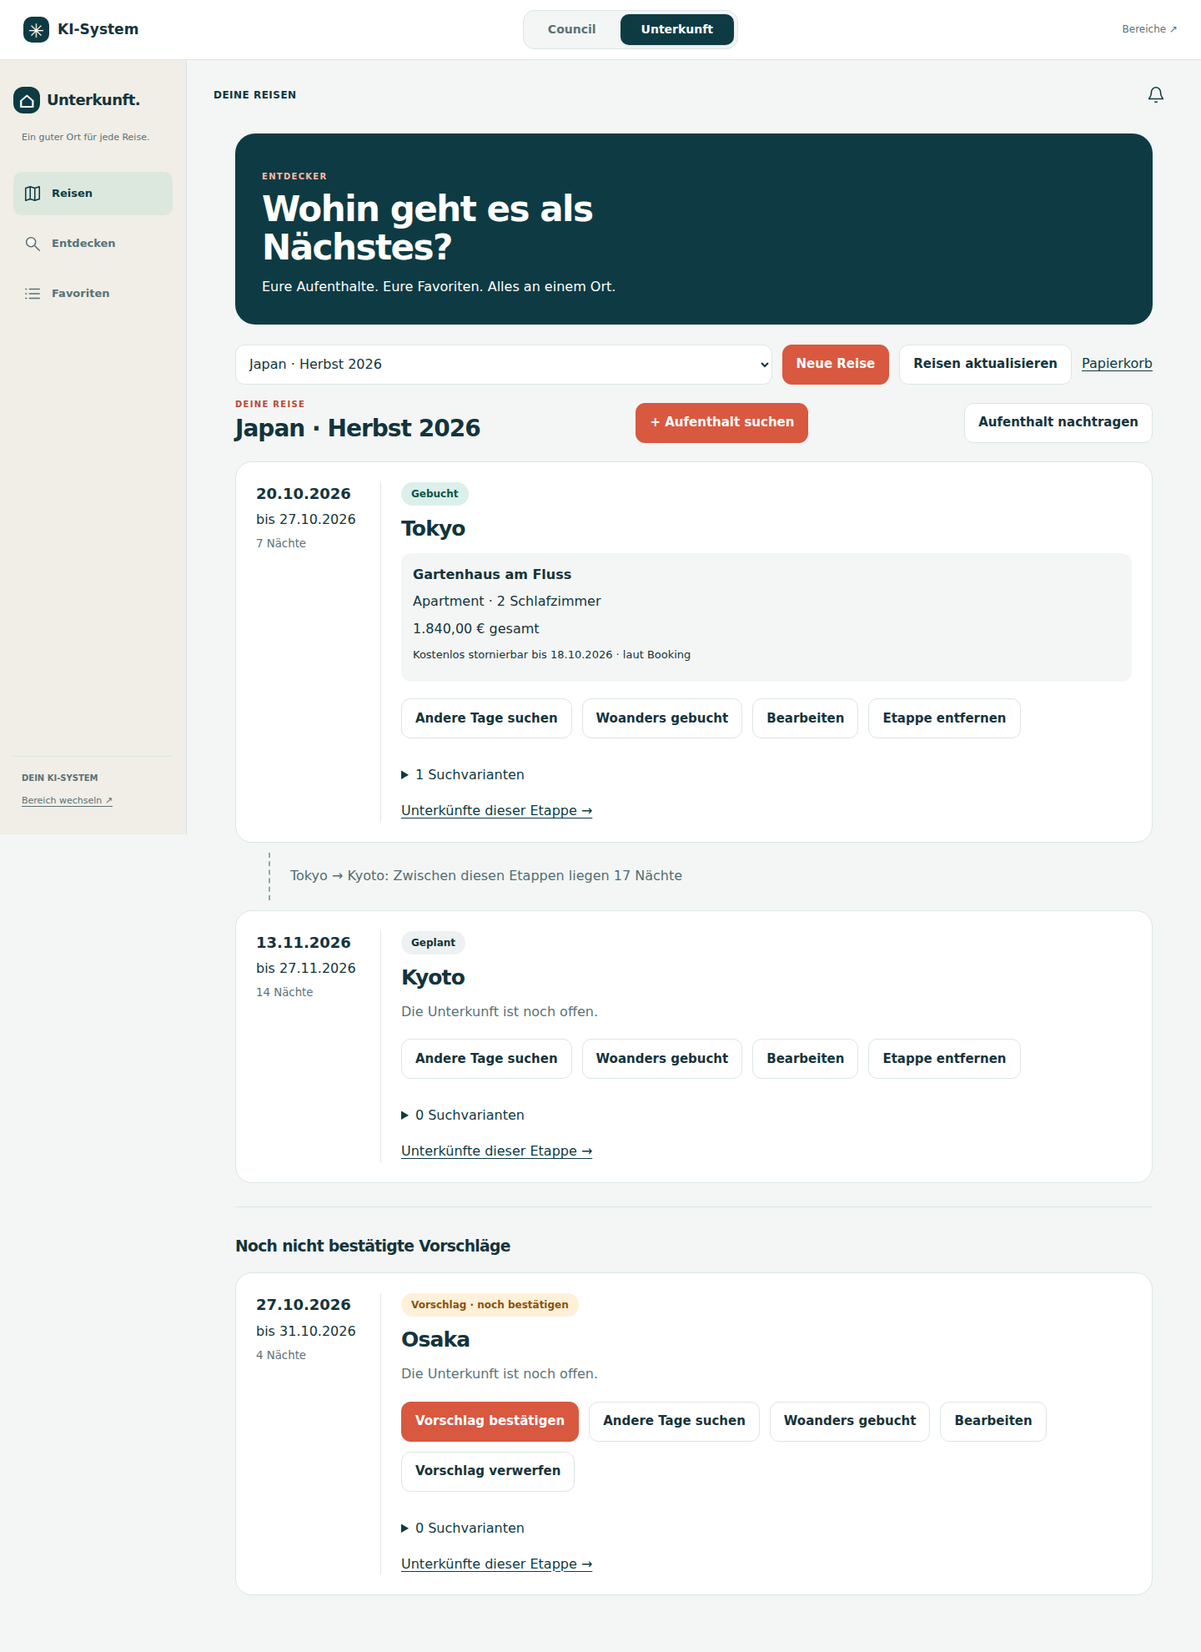
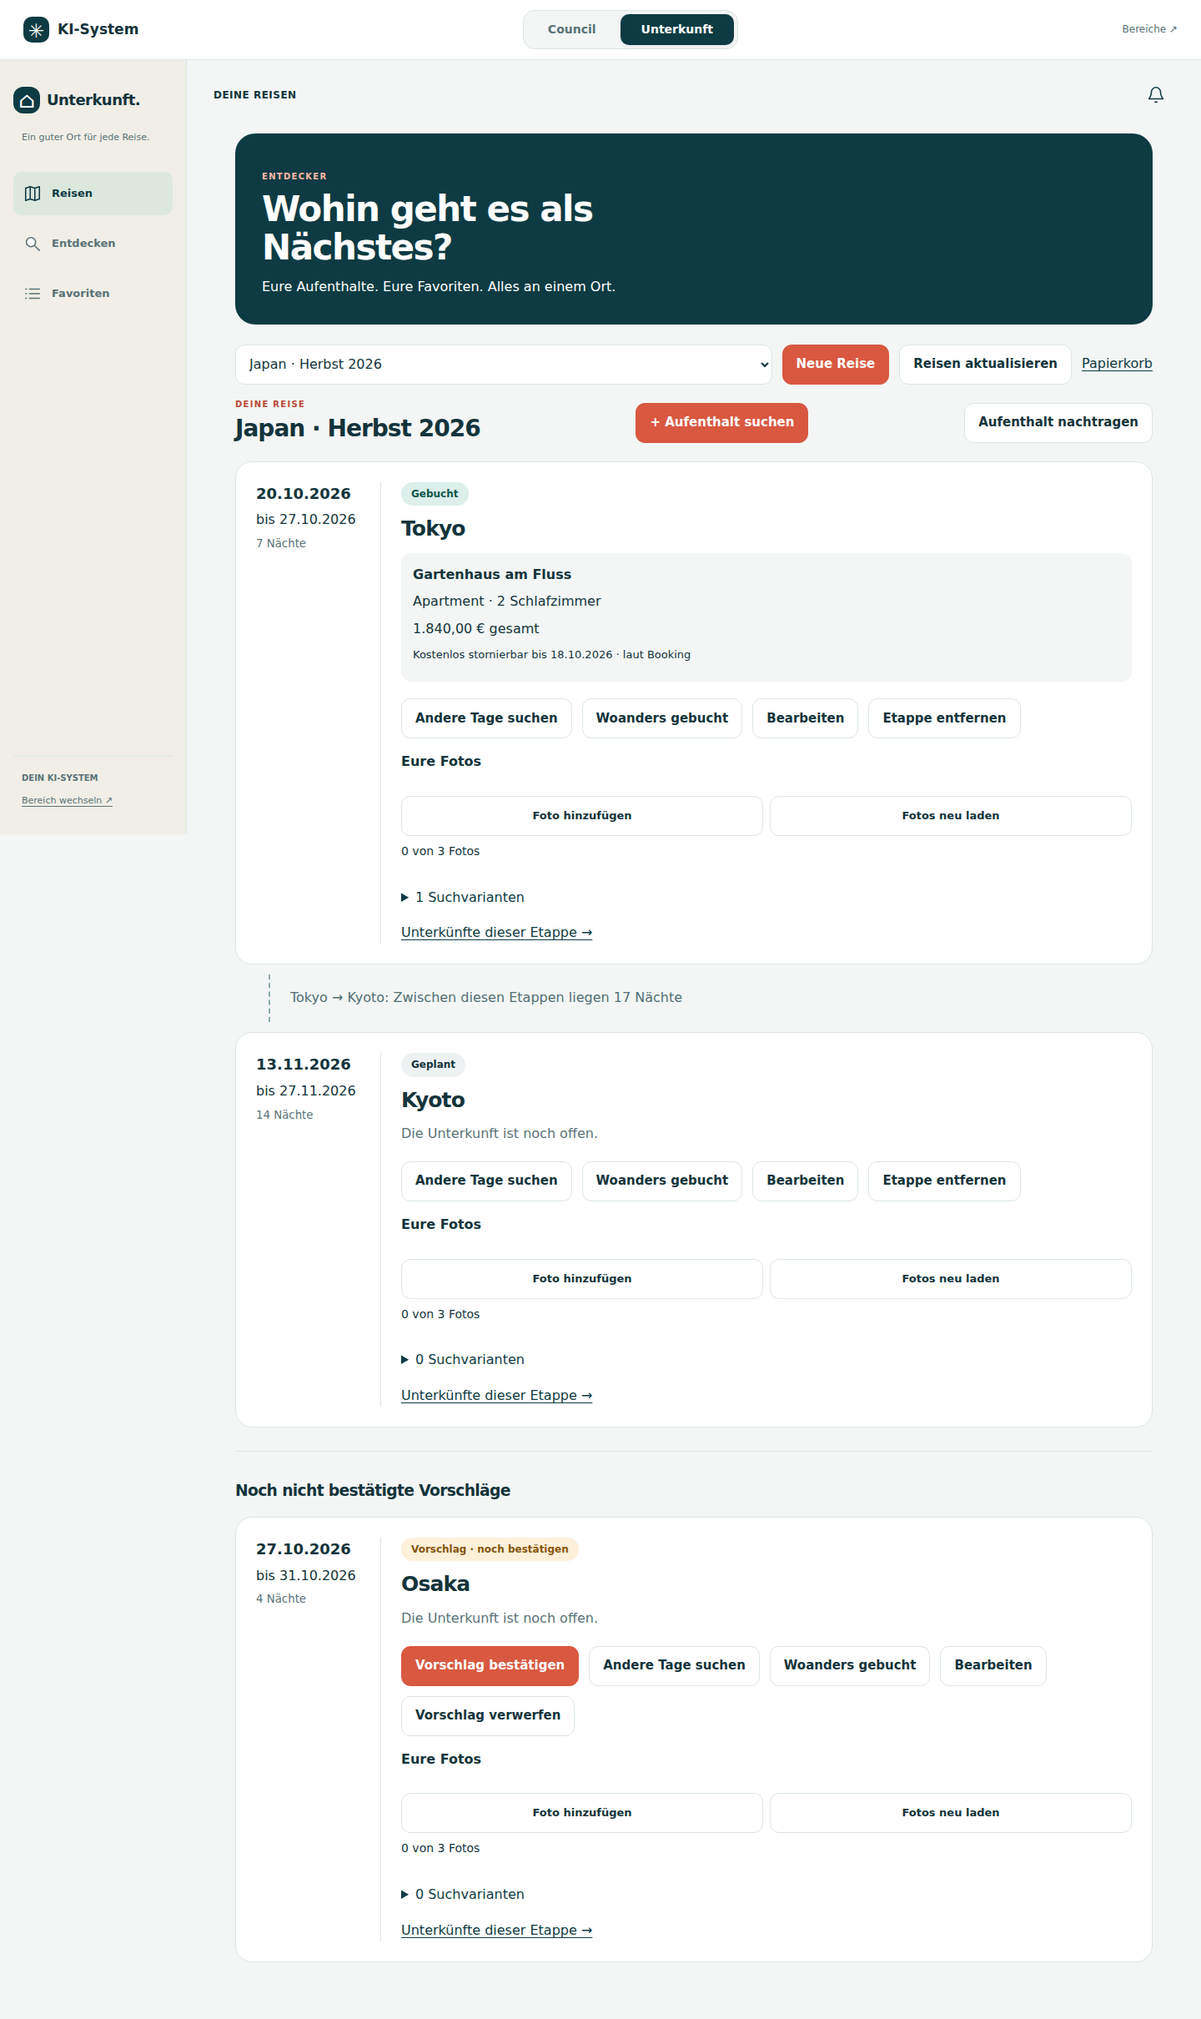
Add private stay photos and collapsible past stays (W88; local a26a035)

diff --git a/stay-trips.js b/stay-trips.js
@@ -46,24 +46,28 @@ async function viewReisen(arg){
  async function change(e,data){if(pending)return;if(e.status==='gebucht'&&data.aktive_suche_id&&data.aktive_suche_id!==e.aktive_suche_id){status.textContent='Diese Etappe ist bereits gebucht. Für einen anderen gebuchten Aufenthalt bitte eine getrennte Etappe anlegen; die Buchung wird nicht still auf andere Tage übertragen.';return;}pending=true;scope.querySelectorAll('button').forEach(b=>b.disabled=true);try{const r=await tripCall('unterkunft_etappe_speichern',{id:e.id,version:e.version,...data});if(r.etappe?.id!==e.id)throw Error('Änderung nicht bestätigt.');await load();}catch(err){status.textContent=err.message+' Bitte Reisen aktualisieren.';}finally{pending=false;reload.disabled=false;}}
  function draw(){
   const expanded=new Set([...content.querySelectorAll('[data-stage] details[open]')].map(n=>Number(n.closest('[data-stage]').dataset.stage)));
+  const pastWasOpen=content.querySelector('.past-stays')?.open||false;
   const rid=Number(selector.value),trip=snapshot.reisen.find(x=>x.id===rid);content.replaceChildren();if(!trip){content.append(el('p',{},'Lege deine erste Reise an. Danach kannst du Unterkünfte suchen.'));return;}
   const stages=snapshot.etappen.filter(e=>e.reise_id===rid).sort((a,b)=>String(a.anreise).localeCompare(String(b.anreise))||a.id-b.id);
   content.append(el('div',{class:'trip-title'},el('div',{},el('p',{class:'eyebrow'},'DEINE REISE'),el('h2',{},trip.name)),el('button',{class:'primary',onclick:()=>{stayWrite('ks_trip_context',{reise_id:rid});route('suche');}},'+ Aufenthalt suchen'),el('button',{onclick:()=>tripExternalBooking({reise_id:rid},load)},'Aufenthalt nachtragen')));
   const timeline=el('div',{class:'trip-timeline'}),proposals=el('section',{class:'trip-proposals'},el('h3',{},'Noch nicht bestätigte Vorschläge'));content.append(timeline);
-  const confirmed=stages.filter(e=>e.status!=='vorschlag');
+  const now=new Date(),today=[now.getFullYear(),String(now.getMonth()+1).padStart(2,'0'),String(now.getDate()).padStart(2,'0')].join('-');
+  const pastStages=stages.filter(e=>e.abreise<today),past=el('details',{class:'past-stays',open:pastWasOpen},el('summary',{},'Bisherige Aufenthalte ('+pastStages.length+')'));
+  const confirmed=stages.filter(e=>e.status!=='vorschlag'&&e.abreise>=today);
   for(const e of stages){const b=e.buchung,card=el('article',{class:'trip-stage','data-stage':e.id});
    card.append(el('div',{class:'stage-date'},el('strong',{},fmtDate(e.anreise)),el('span',{},'bis '+fmtDate(e.abreise)),el('small',{},(e.naechte??'–')+' Nächte')),
-    el('div',{class:'stage-main'},el('span',{class:'trip-status '+e.status},{vorschlag:'Vorschlag · noch bestätigen',geplant:'Geplant',gebucht:'Gebucht'}[e.status]||'Status offen'),el('h3',{},e.ziel),b?el('div',{class:'booking-summary'},el('strong',{},b.name||'Unterkunft'),el('p',{},b.zimmer||''),el('p',{},sucheEuro(b.preis_gesamt_eur)+' gesamt'),el('p',{class:'storno'},tripStorno(b))):el('p',{class:'muted'},'Die Unterkunft ist noch offen.'),
+    el('div',{class:'stage-main'},el('span',{class:'trip-status '+e.status},{vorschlag:'Vorschlag · noch bestätigen',geplant:'Geplant',gebucht:'Gebucht'}[e.status]||'Status offen'),el('h3',{},e.ziel),b?el('div',{class:'booking-summary'},el('strong',{},b.name||'Unterkunft'),el('p',{},b.zimmer||''),el('p',{},b.preis_gesamt_eur==null?(b.notiz?'Preis siehe Notiz':'Preis nicht eingetragen'):sucheEuro(b.preis_gesamt_eur)+' gesamt'),el('p',{class:'storno'},tripStorno(b)),b.notiz?el('details',{},el('summary',{},'Buchungsnotiz'),el('p',{class:'booking-note'},b.notiz)):null):el('p',{class:'muted'},'Die Unterkunft ist noch offen.'),
     el('div',{class:'actions'},e.status==='vorschlag'?el('button',{class:'primary',onclick:()=>change(e,{status:'geplant'})},'Vorschlag bestätigen'):null,el('button',{onclick:()=>tripStart(e)},'Andere Tage suchen'),el('button',{onclick:()=>tripExternalBooking(e,load)},'Woanders gebucht'),el('button',{onclick:()=>tripEdit(e,load)},'Bearbeiten'),el('button',{onclick:()=>tripDelete('etappe',e.id,load)},e.status==='vorschlag'?'Vorschlag verwerfen':'Etappe entfernen'))));
    const searches=el('details',{open:expanded.has(e.id)},el('summary',{},(e.suchen||[]).length+' Suchvarianten'));
    for(const s of e.suchen||[]){const active=s.id===e.aktive_suche_id;searches.append(el('div',{class:'trip-variant'},el('a',{href:'#/suche/'+s.id},`${fmtDate(s.anreise)}–${fmtDate(s.abreise)} · ${s.status}`),active?el('strong',{},'Aktuelle Variante'):el('button',{onclick:()=>change(e,{aktive_suche_id:s.id})},'Diese Tage verwenden'),el('button',{onclick:()=>tripDelete('suchauftrag',s.id,load)},'Suche entfernen')));}
-   card.querySelector('.stage-main').append(searches,el('a',{href:'#/etappe/'+e.id},'Unterkünfte dieser Etappe →'));if(e.status==='vorschlag')proposals.append(card);else {
+   card.querySelector('.stage-main').append(tripPhotos(e.id,live,{lazy:e.abreise<today}),searches,el('a',{href:'#/etappe/'+e.id},'Unterkünfte dieser Etappe →'));if(e.abreise<today)past.append(card);else if(e.status==='vorschlag')proposals.append(card);else {
     const before=confirmed[confirmed.indexOf(e)-1];
     for(const gap of snapshot.luecken||[]){if(before&&gap.zwischen?.[0]===before.id&&gap.zwischen?.[1]===e.id)timeline.append(el('div',{class:'trip-gap','data-gap-from':before.id,'data-gap-to':e.id},`${before.ziel} → ${e.ziel}: `+(gap.text||`${gap.naechte} Nächte noch offen`)));}
     timeline.append(card);
    }
   }
   if(proposals.childElementCount>1)content.append(proposals);
+  if(pastStages.length)content.append(past);
   if(!stages.length)timeline.append(el('p',{class:'card'},'Noch keine Etappen. Suche deinen ersten Aufenthalt.'));
   const loose=(snapshot.ohne_etappe||[]).filter(s=>s.reise_id===rid||!s.reise_id);if(loose.length){const box=el('details',{},el('summary',{},'Suchen ohne Etappe'));for(const s of loose){const target=el('select',{'aria-label':'Etappe für Suche '+s.id},el('option',{value:''},'Etappe wählen'),stages.map(e=>el('option',{value:e.id},e.ziel+' · '+fmtDate(e.anreise))));box.append(el('div',{class:'trip-variant'},el('a',{href:'#/suche/'+s.id},'Suche #'+s.id+' · '+s.ziel),target,el('button',{onclick:async ev=>{if(!tripId(target.value))return;ev.target.disabled=true;try{const r=await tripCall('unterkunft_etappe_zuordnen',{suchauftrag_id:s.id,etappe_id:Number(target.value)});if(!r.suche)throw Error('Zuordnung nicht bestätigt.');await load();}catch(e){status.textContent=e.message+' Bitte neu lesen.';}}},'Zuordnen')));}content.append(box);}
  }

diff --git a/stay-photos.js b/stay-photos.js
@@ -1,0 +1,46 @@
+/* Private stay photos: signed URLs stay in memory, never in app storage. */
+async function tripPhotoPrepare(file){
+ if(!file||!file.type.startsWith('image/'))throw Error('Bitte eine Bilddatei auswählen.');
+ const source=URL.createObjectURL(file),img=new Image();
+ try{
+  img.src=source;try{await img.decode();}catch{throw Error('Dieses Bildformat lässt sich hier nicht öffnen. Bitte als JPEG oder PNG auswählen.');}
+  const scale=Math.min(1,1600/Math.max(img.naturalWidth,img.naturalHeight)),canvas=document.createElement('canvas');
+  canvas.width=Math.max(1,Math.round(img.naturalWidth*scale));canvas.height=Math.max(1,Math.round(img.naturalHeight*scale));
+  const ctx=canvas.getContext('2d');if(!ctx)throw Error('Bildverarbeitung nicht verfügbar.');ctx.fillStyle='#fff';ctx.fillRect(0,0,canvas.width,canvas.height);ctx.drawImage(img,0,0,canvas.width,canvas.height);
+  const data=canvas.toDataURL('image/jpeg',0.82).split(',')[1];if(!data||Math.ceil(data.length*3/4)>3*1024*1024)throw Error('Bild ist noch zu groß. Bitte ein kleineres Foto auswählen.');
+  return {mime:'image/jpeg',daten_base64:data,breite:canvas.width,hoehe:canvas.height};
+ }finally{URL.revokeObjectURL(source);}
+}
+function tripPhotos(etappeId,live,{lazy=false}={}){
+ const node=el('section',{class:'stay-photos','aria-label':'Fotos zum Aufenthalt','data-stay-photos':etappeId}),list=el('div',{class:'stay-photo-strip'}),message=el('p',{class:'small',role:'status'});
+ const input=el('input',{type:'file',accept:'image/*','aria-label':'Foto für Aufenthalt '+etappeId+' auswählen',class:'photo-file-input'});
+ const add=el('button',{type:'button',onclick:()=>input.click()},'Foto hinzufügen'),reload=el('button',{type:'button',onclick:()=>load(true)},'Fotos neu laden');
+ let photos=[],pending=false,uncertain=false,loaded=false,refreshUsed=false,viewer=null,viewedId=null;
+ const active=()=>live()&&node.isConnected;
+ node.append(el('h4',{},'Eure Fotos'),list,input,el('div',{class:'actions'},add,reload),message);
+ function controls(){add.hidden=photos.length>=3;input.disabled=add.disabled=pending||uncertain||!loaded;reload.disabled=pending;list.querySelectorAll('button').forEach(b=>b.disabled=pending||uncertain);}
+ function url(value){try{const u=new URL(value);return u.protocol==='https:'&&!u.username&&!u.password?u.href:null;}catch{return null;}}
+ function photoImage(p){return el('img',{src:url(p.url),alt:p.titel||'Aufenthaltsfoto',loading:'lazy',referrerpolicy:'no-referrer',onerror:()=>{if(!active())return;if(!refreshUsed&&!pending){refreshUsed=true;void load(false);}else message.textContent='Foto nicht verfügbar. Bitte Fotos neu laden.';}});}
+ function show(p){viewer?.d.close();viewedId=p.foto_id;viewer=tripDialog(p.titel||'Aufenthaltsfoto');viewer.body.append(photoImage(p));viewer.d.classList.add('stay-photo-viewer');viewer.d.addEventListener('close',()=>{viewer=null;viewedId=null;});}
+ function draw(){list.replaceChildren(...photos.map(p=>el('figure',{},el('button',{type:'button','aria-label':'Foto groß öffnen',onclick:()=>show(p)},photoImage(p)),el('button',{type:'button',onclick:()=>remove(p)},'Foto löschen'))));controls();
+  if(viewer){const p=photos.find(p=>p.foto_id===viewedId);if(p)viewer.body.replaceChildren(photoImage(p));else viewer.d.close();}
+ }
+ async function load(manual=false){if(pending||!active())return;pending=true;if(manual)refreshUsed=false;controls();message.textContent='Fotos werden geladen …';
+  try{const r=await tripCall('unterkunft_fotos_lesen',{etappe_id:etappeId});if(!active())return;if(!Array.isArray(r.fotos)||r.fotos.length>3||r.fotos.some(p=>!tripId(p.foto_id)||p.etappe_id!==etappeId||!url(p.url)))throw Error('Fotos nicht vollständig lesbar.');photos=r.fotos;loaded=true;uncertain=false;message.textContent=photos.length+' von 3 Fotos';draw();}
+  catch(e){if(active())message.textContent=e.message;}
+  finally{pending=false;if(active())controls();}
+ }
+ input.onchange=async()=>{const file=input.files?.[0];input.value='';if(!file||pending||uncertain||!loaded||photos.length>=3)return;pending=true;controls();message.textContent='Foto wird verkleinert …';let sent=false;
+  try{const data=await tripPhotoPrepare(file);if(!active())return;message.textContent='Foto wird hochgeladen …';sent=true;const r=await tripCall('unterkunft_foto_hochladen',{etappe_id:etappeId,...data});if(!active())return;if(!tripId(r.foto_id)||r.etappe_id!==etappeId)throw Error('Hochladen nicht eindeutig bestätigt.');pending=false;await load();}
+  catch(e){if(active()){uncertain=sent;message.textContent=e.message+(sent?' Bitte Fotos neu laden; nicht erneut hochladen.':'');}}
+  finally{pending=false;if(active())controls();}
+ };
+ function remove(p){if(pending||uncertain)return;const {d,body,status,close}=tripDialog('Foto löschen?');const yes=el('button',{type:'button',onclick:async()=>{if(pending)return;pending=true;controls();yes.disabled=true;close.disabled=true;cancel.disabled=true;
+   try{const r=await tripCall('unterkunft_foto_loeschen',{foto_id:p.foto_id});if(r.ok!==true)throw Error('Löschen nicht eindeutig bestätigt.');d.close();if(!active())return;pending=false;await load();}
+   catch(e){uncertain=true;status.textContent=e.message+' Bitte schließen und Fotos neu laden; keine automatische Wiederholung.';}
+   finally{pending=false;close.disabled=false;cancel.disabled=false;if(active())controls();}
+  }},'Endgültig löschen'),cancel=el('button',{type:'button',onclick:()=>d.close()},'Abbrechen');body.append(el('p',{},'Dieses Foto aus dem Aufenthalt entfernen?'),cancel,yes);d.addEventListener('cancel',e=>{if(pending)e.preventDefault();});}
+ controls();
+ queueMicrotask(()=>{if(!active())return;const details=node.closest('details');if(lazy&&details&&!details.open){details.addEventListener('toggle',()=>{if(details.open&&!loaded)void load();});}else void load();});
+ return node;
+}

diff --git a/index.html b/index.html
@@ -14,21 +14,22 @@
 <link rel="icon" href="icon.svg" type="image/svg+xml">
 <link rel="apple-touch-icon" href="icon-180.png">
 <link rel="stylesheet" href="vendor/leaflet-1.9.4/leaflet.css">
-<link rel="stylesheet" href="style.css?v=0.20.0">
+<link rel="stylesheet" href="style.css?v=0.21.0">
 <script src="https://cdnjs.cloudflare.com/ajax/libs/marked/15.0.7/marked.min.js" defer></script>
 <script src="vendor/leaflet-1.9.4/leaflet.js" defer></script>
-<script src="stay-tools.js?v=0.20.0" defer></script>
-<script src="stay-research.js?v=0.20.0" defer></script>
-<script src="stay-form.js?v=0.20.0" defer></script>
-<script src="stay-details.js?v=0.20.0" defer></script>
-<script src="stay-districts.js?v=0.20.0" defer></script>
-<script src="stay-review.js?v=0.20.0" defer></script>
-<script src="stay-trips.js?v=0.20.0" defer></script>
-<script src="stay-compare.js?v=0.20.0" defer></script>
-<script src="stay-refresh.js?v=0.20.0" defer></script>
-<script src="stay-workplace.js?v=0.20.0" defer></script>
-<script src="stay-notifications.js?v=0.20.0" defer></script>
-<script src="app.js?v=0.20.0" defer></script>
+<script src="stay-tools.js?v=0.21.0" defer></script>
+<script src="stay-research.js?v=0.21.0" defer></script>
+<script src="stay-form.js?v=0.21.0" defer></script>
+<script src="stay-details.js?v=0.21.0" defer></script>
+<script src="stay-districts.js?v=0.21.0" defer></script>
+<script src="stay-review.js?v=0.21.0" defer></script>
+<script src="stay-photos.js?v=0.21.0" defer></script>
+<script src="stay-trips.js?v=0.21.0" defer></script>
+<script src="stay-compare.js?v=0.21.0" defer></script>
+<script src="stay-refresh.js?v=0.21.0" defer></script>
+<script src="stay-workplace.js?v=0.21.0" defer></script>
+<script src="stay-notifications.js?v=0.21.0" defer></script>
+<script src="app.js?v=0.21.0" defer></script>
 </head>
 <body>
 

diff --git a/sw.js b/sw.js
@@ -1,7 +1,7 @@
 // Service Worker: hält nur die App-Hülle vor (Dateien dieser Seite). Daten kommen immer live von app-api.
 const CACHE_PREFIX = 'ki-system:' + self.registration.scope + ':';
-const CACHE = CACHE_PREFIX + 'v32';
-const HUELLE = ['./', './index.html', './stay-compare.js?v=0.20.0', './stay-refresh.js?v=0.20.0', './stay-workplace.js?v=0.20.0', './stay-notifications.js?v=0.20.0', './stay-trips.js?v=0.20.0', './stay-review.js?v=0.20.0', './app.js?v=0.20.0', './stay-tools.js?v=0.20.0', './stay-research.js?v=0.20.0', './stay-form.js?v=0.20.0', './stay-details.js?v=0.20.0', './stay-districts.js?v=0.20.0', './vendor/leaflet-1.9.4/leaflet.js', './vendor/leaflet-1.9.4/leaflet.css', './style.css?v=0.20.0', './manifest.webmanifest', './icon.svg', './icon-180.png', './icon-512.png'];
+const CACHE = CACHE_PREFIX + 'v33';
+const HUELLE = ['./', './index.html', './stay-compare.js?v=0.21.0', './stay-refresh.js?v=0.21.0', './stay-workplace.js?v=0.21.0', './stay-notifications.js?v=0.21.0', './stay-photos.js?v=0.21.0', './stay-trips.js?v=0.21.0', './stay-review.js?v=0.21.0', './app.js?v=0.21.0', './stay-tools.js?v=0.21.0', './stay-research.js?v=0.21.0', './stay-form.js?v=0.21.0', './stay-details.js?v=0.21.0', './stay-districts.js?v=0.21.0', './vendor/leaflet-1.9.4/leaflet.js', './vendor/leaflet-1.9.4/leaflet.css', './style.css?v=0.21.0', './manifest.webmanifest', './icon.svg', './icon-180.png', './icon-512.png'];
 const HUELLE_URLS = new Set(HUELLE.map(path => new URL(path, self.registration.scope).href));
 
 self.addEventListener('install', (e) => {

diff --git a/style.css b/style.css
@@ -1001,3 +1001,8 @@ body:has(.tinder-mode) main.view{padding:8px 10px;}
 .decision-place.tinder-mode .decision-content>.stay-review{flex:1;width:100%;min-height:0}
 .trip-dialog .decision-table th,.trip-dialog .decision-table td{min-width:145px;overflow-wrap:normal;word-break:normal}
 .trip-dialog .decision-table th:first-child{min-width:120px}
+
+/* Personal stay photos, separate from search-result photos. */
+.stay-photos{margin:16px 0}.stay-photos h4{margin:8px 0}.stay-photo-strip{display:flex;gap:8px}.stay-photo-strip figure{margin:0;min-width:0;flex:1;max-width:180px}.stay-photo-strip figure>button:first-child{padding:0;width:100%;overflow:hidden;border-radius:12px}.stay-photo-strip img{display:block;width:100%;height:100px;object-fit:cover}.stay-photo-strip figure>button:last-child{font-size:12px;padding:8px 4px;width:100%}.photo-file-input{display:none}.stay-photo-viewer img{display:block;max-width:100%;max-height:75dvh;object-fit:contain;margin:auto}.past-stays{margin-top:22px}.past-stays>summary{font-size:18px;font-weight:700;padding:16px;border-radius:14px;background:#e5eeeb;cursor:pointer}.past-stays .trip-stage{margin-top:12px}.booking-note{white-space:pre-wrap;overflow-wrap:anywhere}
+
+.stay-photos .actions{display:flex;flex-wrap:wrap;gap:8px}.stay-photos .actions button{flex:1;min-width:0;font-size:13px;padding:10px}

diff --git a/stay-workplace.js b/stay-workplace.js
@@ -27,6 +27,7 @@ async function viewDecisionPlace(arg){
   scope.append(el('a',{href:'#/reisen/'+r.etappe.reise_id},'← Zur Reise'),el('h2',{},r.etappe.ziel),el('p',{},fmtDate(r.etappe.anreise)+'–'+fmtDate(r.etappe.abreise)),tabs,modeButtons,el('label',{},'Sortieren nach',sorting),toolbar,status,content,el('div',{class:'actions'},reload,button('Woanders gebucht',()=>tripExternalBooking(r.etappe,()=>render())),button('Suche auffrischen',()=>tripRefresh(r.etappe)),button('Keiner passt',()=>{
     const {body}=tripDialog('Andere Unterkunft finden');body.append(el('p',{},'Deine bisherigen Entscheidungen bleiben erhalten.'),button('Kriterien ändern und neu suchen',()=>tripStart(r.etappe)),button('Andere Tage als Variante suchen',()=>tripStart(r.etappe)));
   })));
+  scope.append(tripPhotos(r.etappe.id,live));
   main.replaceChildren(scope);
   review=stayReview({getSnapshot:()=>snapshot,getRows:rows,getGroup:()=>group,menuItems:()=>[tabs,modeButtons],call:tripCall,live,scope,onClose:()=>{mode='list';draw();},onRefresh:()=>render(),isBlocked:()=>uncertain||pending,changed:()=>draw()});
   disposeSuche=()=>review.dispose();

diff --git a/app.js b/app.js
@@ -3,7 +3,7 @@
    Schreibende Aktionen laufen nur nach einem Klick von Sebastian. */
 'use strict';
 
-const APP_VERSION = '0.20.0';
+const APP_VERSION = '0.21.0';
 const API = 'https://sdgzwxiqcijxfpcjpydw.supabase.co/functions/v1/app-api';
 const TOKEN_KEY = 'ks_token';
 

diff --git a/docs/W88-ABNAHME.md b/docs/W88-ABNAHME.md
@@ -1,0 +1,14 @@
+# Wunsch 88 · Aufenthaltsfotos und Reiseverlauf
+
+Eigener PR nach PR14-Veröffentlichung, App 0.21.0 / Cache v33. Serververtrag aus Werkstatt 342 (app-api 0.15.0).
+
+- Je Aufenthalt maximal drei eigene Fotos, Vorschaubilder, Großansicht und Löschen mit ausdrücklicher Rückfrage.
+- Browser dekodiert das Original; Canvas erzeugt JPEG mit Qualität 0,82 und längster Seite höchstens 1600 Pixel. Grenze 3 MB nach Umwandlung. Bei nicht unterstütztem HEIC verständlicher Hinweis auf JPEG/PNG; kein universeller HEIC-Decoder behauptet.
+- Kurzlebige HTTPS-Bildlinks nur im Arbeitsspeicher. Kein LocalStorage/IndexedDB oder Service-Worker-Cache für Fotos. Bildfehler stößt höchstens eine automatische Neulesung an; manuelles Neulesen bleibt möglich.
+- Unklare Upload-/Löschantwort sperrt weitere Änderungen bis zum Neulesen. Keine automatische Wiederholung eines Uploads.
+- Vergangene Aufenthalte (Abreise vor lokalem heutigen Kalenderdatum) standardmäßig unter „Bisherige Aufenthalte (n)“ eingeklappt. Deren Fotos werden erst beim Öffnen gelesen. Aktuelle/künftige bleiben oben; vergangene Vorschläge wandern ebenfalls in den Verlauf.
+- Leerer EUR-Preis mit vorhandener Buchungsnotiz: „Preis siehe Notiz“, Notiz aufklappbar. Keine erfundenen Euro-Umrechnungen.
+
+Browserprüfungen mit synthetischen Daten: Verlauf, Notizpreis, Bildverkleinerung (2400×1200 → 1600×800 JPEG), Dreiergrenze, Großansicht, Abbruch/Bestätigung beim Löschen, abgelaufener Link, verlorene Uploadantwort und lesende Wiederaufnahme. Kein persönliches Foto hochgeladen oder gelöscht. iPhone-HEIC-Dekodierung ist vom Browser abhängig und noch nicht auf einem physischen Gerät geprüft.
+
+Screenshots: `previews/w88-fotos-mobile.png`, `previews/w88-vergangene-mobile.png` (synthetische Testbilder).
